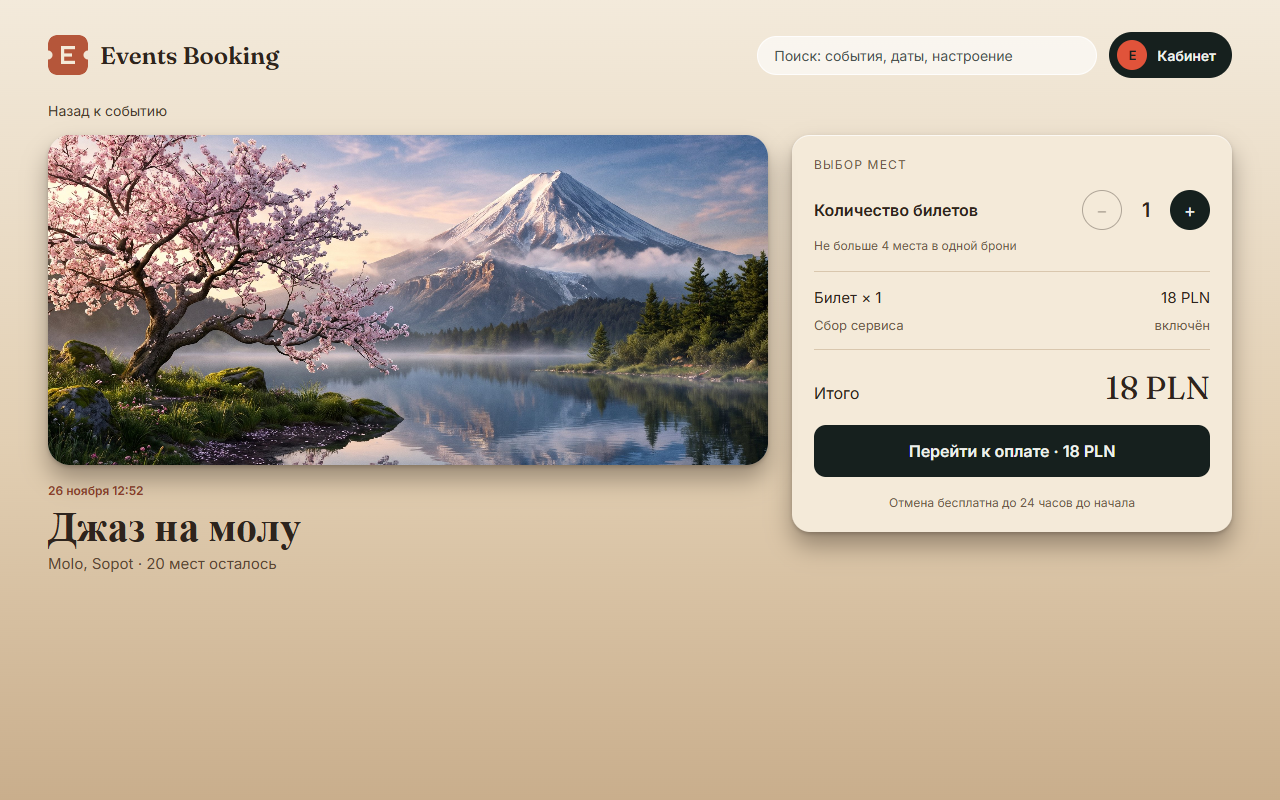
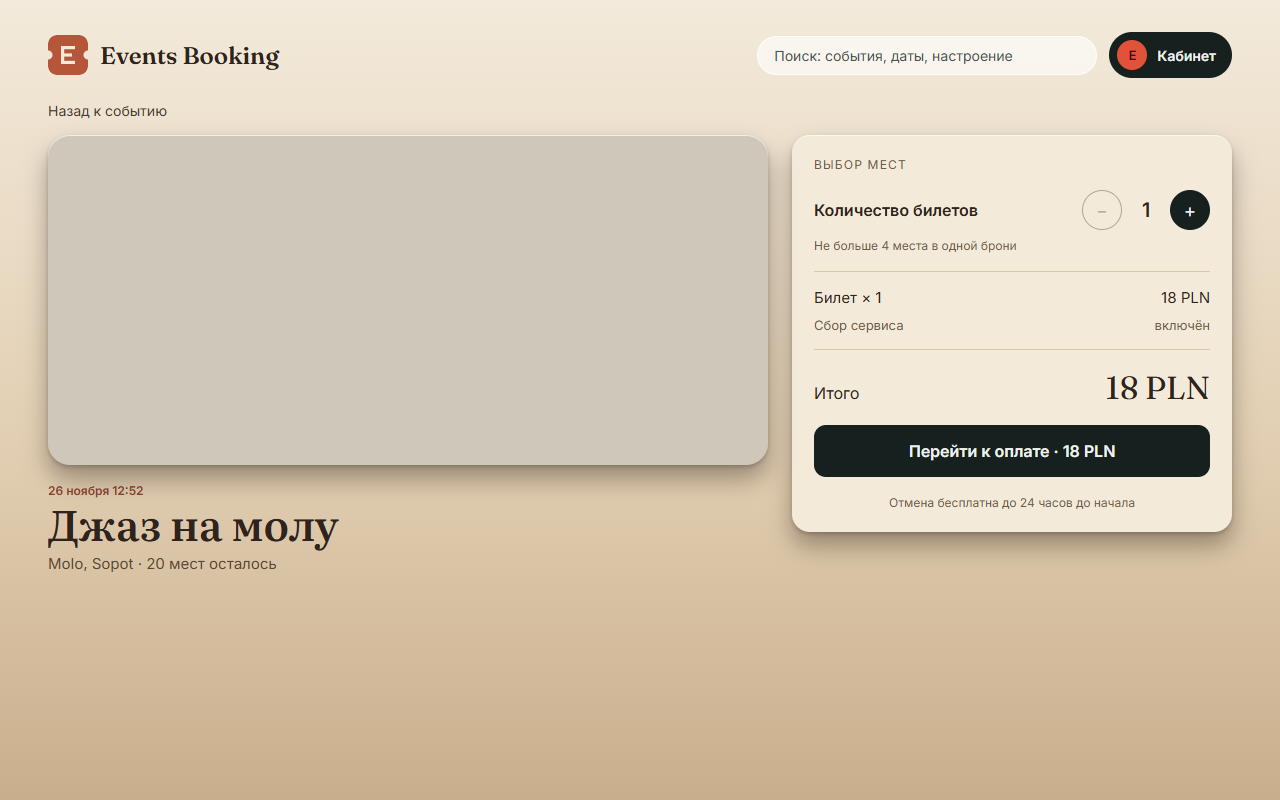
Headings: Literata for Cyrillic letters (Fraunces has none), Latin stays in Fraunces; screenshots retaken

Changed region(s): [[0.0312, 0.1562, 0.625, 0.5938], [0.0312, 0.625, 0.2812, 0.6875]]

diff --git a/frontend/index.html b/frontend/index.html
@@ -6,7 +6,7 @@
     <link rel="preconnect" href="https://fonts.googleapis.com" />
     <link rel="preconnect" href="https://fonts.gstatic.com" crossorigin />
     <link
-      href="https://fonts.googleapis.com/css2?family=Fraunces:opsz,wght@9..144,400;9..144,600&family=Inter:wght@400;500;600&display=swap"
+      href="https://fonts.googleapis.com/css2?family=Fraunces:opsz,wght@9..144,400;9..144,600&family=Literata:opsz,wght@7..72,400;7..72,600&family=Inter:wght@400;500;600&display=swap"
       rel="stylesheet"
     />
     <title>Events Booking</title>

diff --git a/frontend/src/styles/tokens.test.ts b/frontend/src/styles/tokens.test.ts
@@ -27,6 +27,12 @@ describe('design tokens', () => {
     expect(offenders).toEqual([])
   })
 
+  it('give Cyrillic headings a serif that has Cyrillic: Fraunces has none', () => {
+    const fonts = [...frontendFile('src/styles/tokens.css').matchAll(/--font-display:\s*([^;]+);/g)].map((m) => m[1])
+    expect(fonts.at(-1)).toBe('"Fraunces", "Literata", serif')
+    expect(frontendFile('index.html')).toMatch(/family=Literata:/)
+  })
+
   it('index.html has no colours either', () => {
     expect(COLOUR.test(frontendFile('index.html'))).toBe(false)
   })

diff --git a/frontend/src/styles/tokens.css b/frontend/src/styles/tokens.css
@@ -225,4 +225,8 @@ h1, h2, h3, .display {
   /* K-favorites */
   --empty-border: 1px dashed #9C8464;       /* the hint card where the list ends */
   --ink-soft: #5A4632;                      /* the hint text; "← Все события" (O-event) */
+
+  /* Fraunces has no Cyrillic, so Russian headings fell back to the system serif (Times). The browser picks a font per
+     letter: Latin stays in Fraunces, Cyrillic is set in Literata, a book serif with optical sizes like Fraunces. */
+  --font-display: "Fraunces", "Literata", serif;
 }
